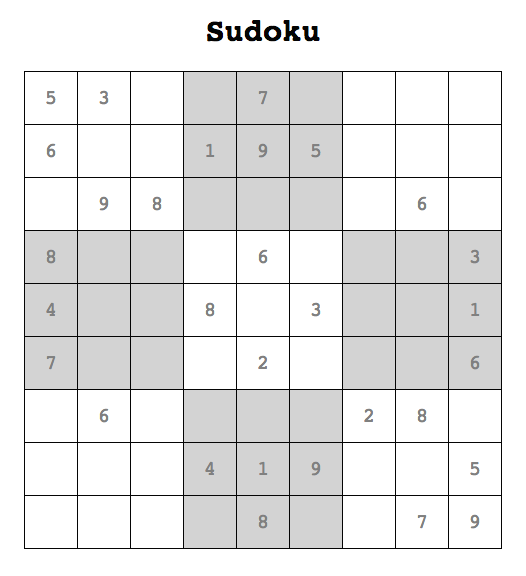
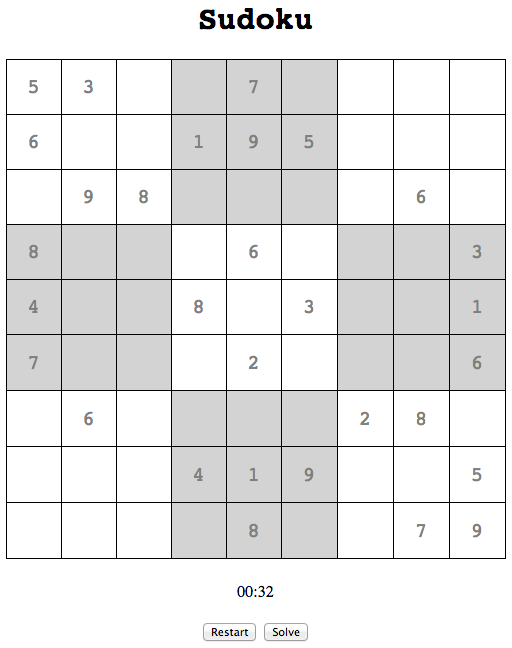
Added future work section to README.md.

Changed region(s): [[0.0, 0.0, 1.0, 1.0]]

diff --git a/css/app.css b/css/app.css
@@ -12,3 +12,8 @@
 #divSudoku{
 	display:inline-block;
 }
+
+#timer{
+	margin-top:20px;
+	margin-bottom:20px;
+}

diff --git a/README.md b/README.md
@@ -28,3 +28,8 @@ Visit the tests directory in a browser.
 When the game is created, two boards are loaded in from CSV files: the initial board and the solution board. Each board is represented by a two-dimensional array of integers. As the user fills in spaces on the board, the game keeps track of how many spaces have been filled in correctly. Once the number of correctly filled in spaces reaches the total number of spaces on the board, an event is thrown to indicate that the game has been solved.
 
 This is a constant O(1) time approach to checking if the board is solved since only one space needs to be checked on each move. However, this approach depends on knowing the solution ahead of time. If the solution was not supplied, the game would either need to compute the solution upfront or calculate if the current board is solved on each move.
+
+### Future work
+* Show a UI to indicate what numbers are valid choices for each space
+* Replace the textbox in each space with a number-picking UI to eliminate the need for the keyboard to pop up on mobile devices
+* Incorporate jQuery Mobile to produce a UI that fits better on mobile devices
